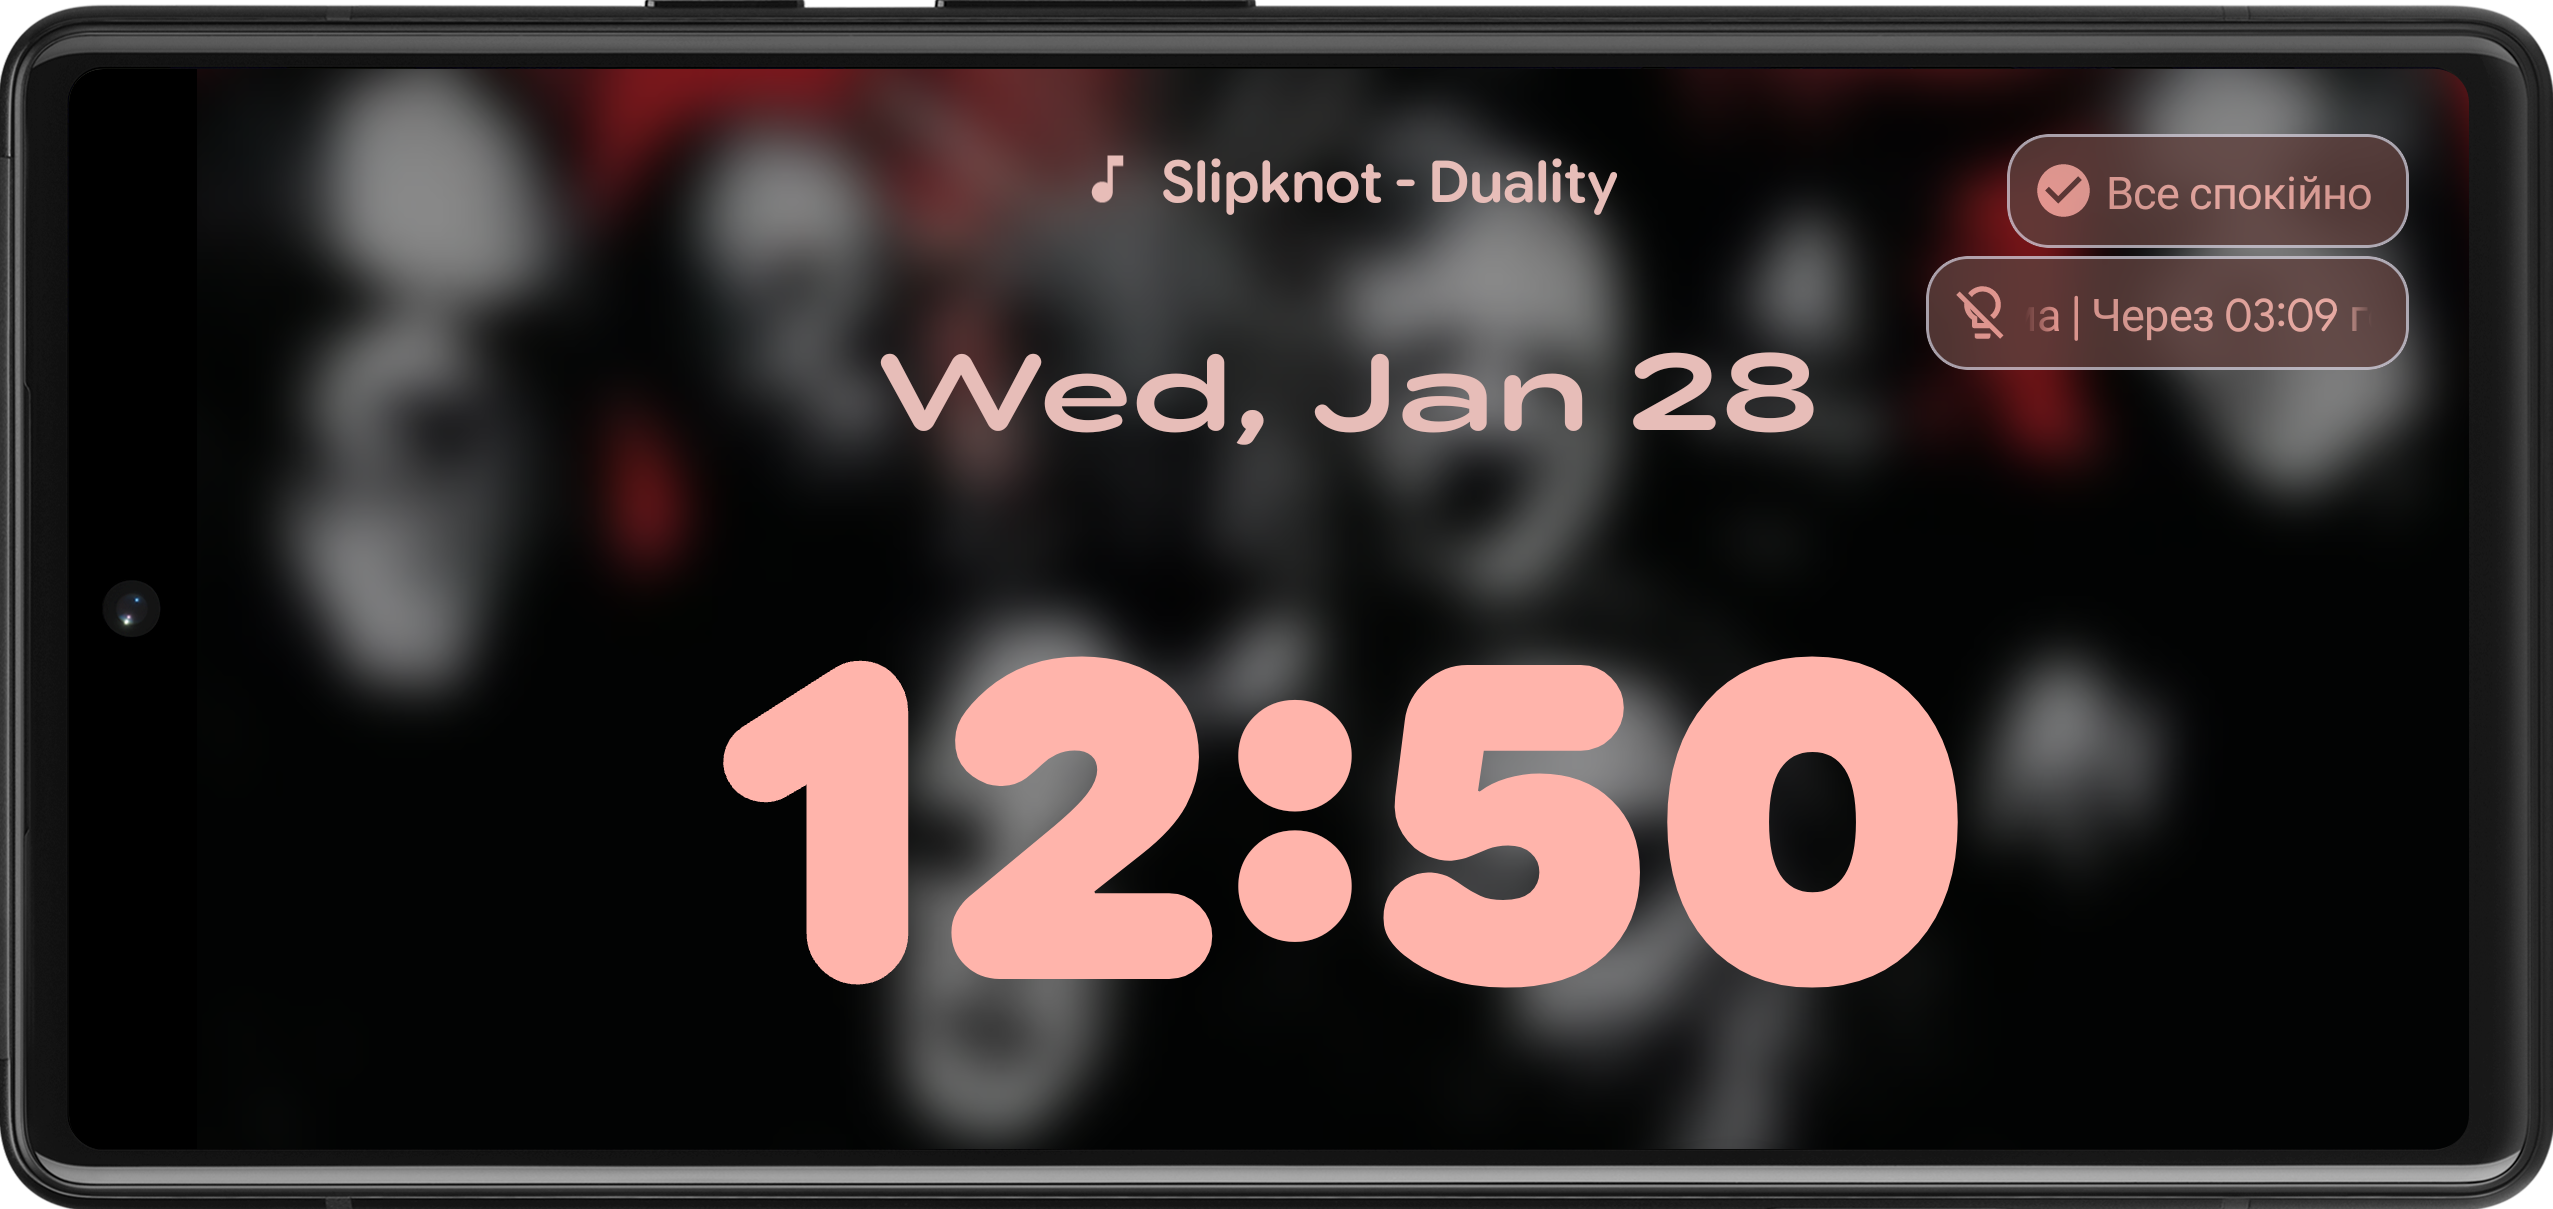
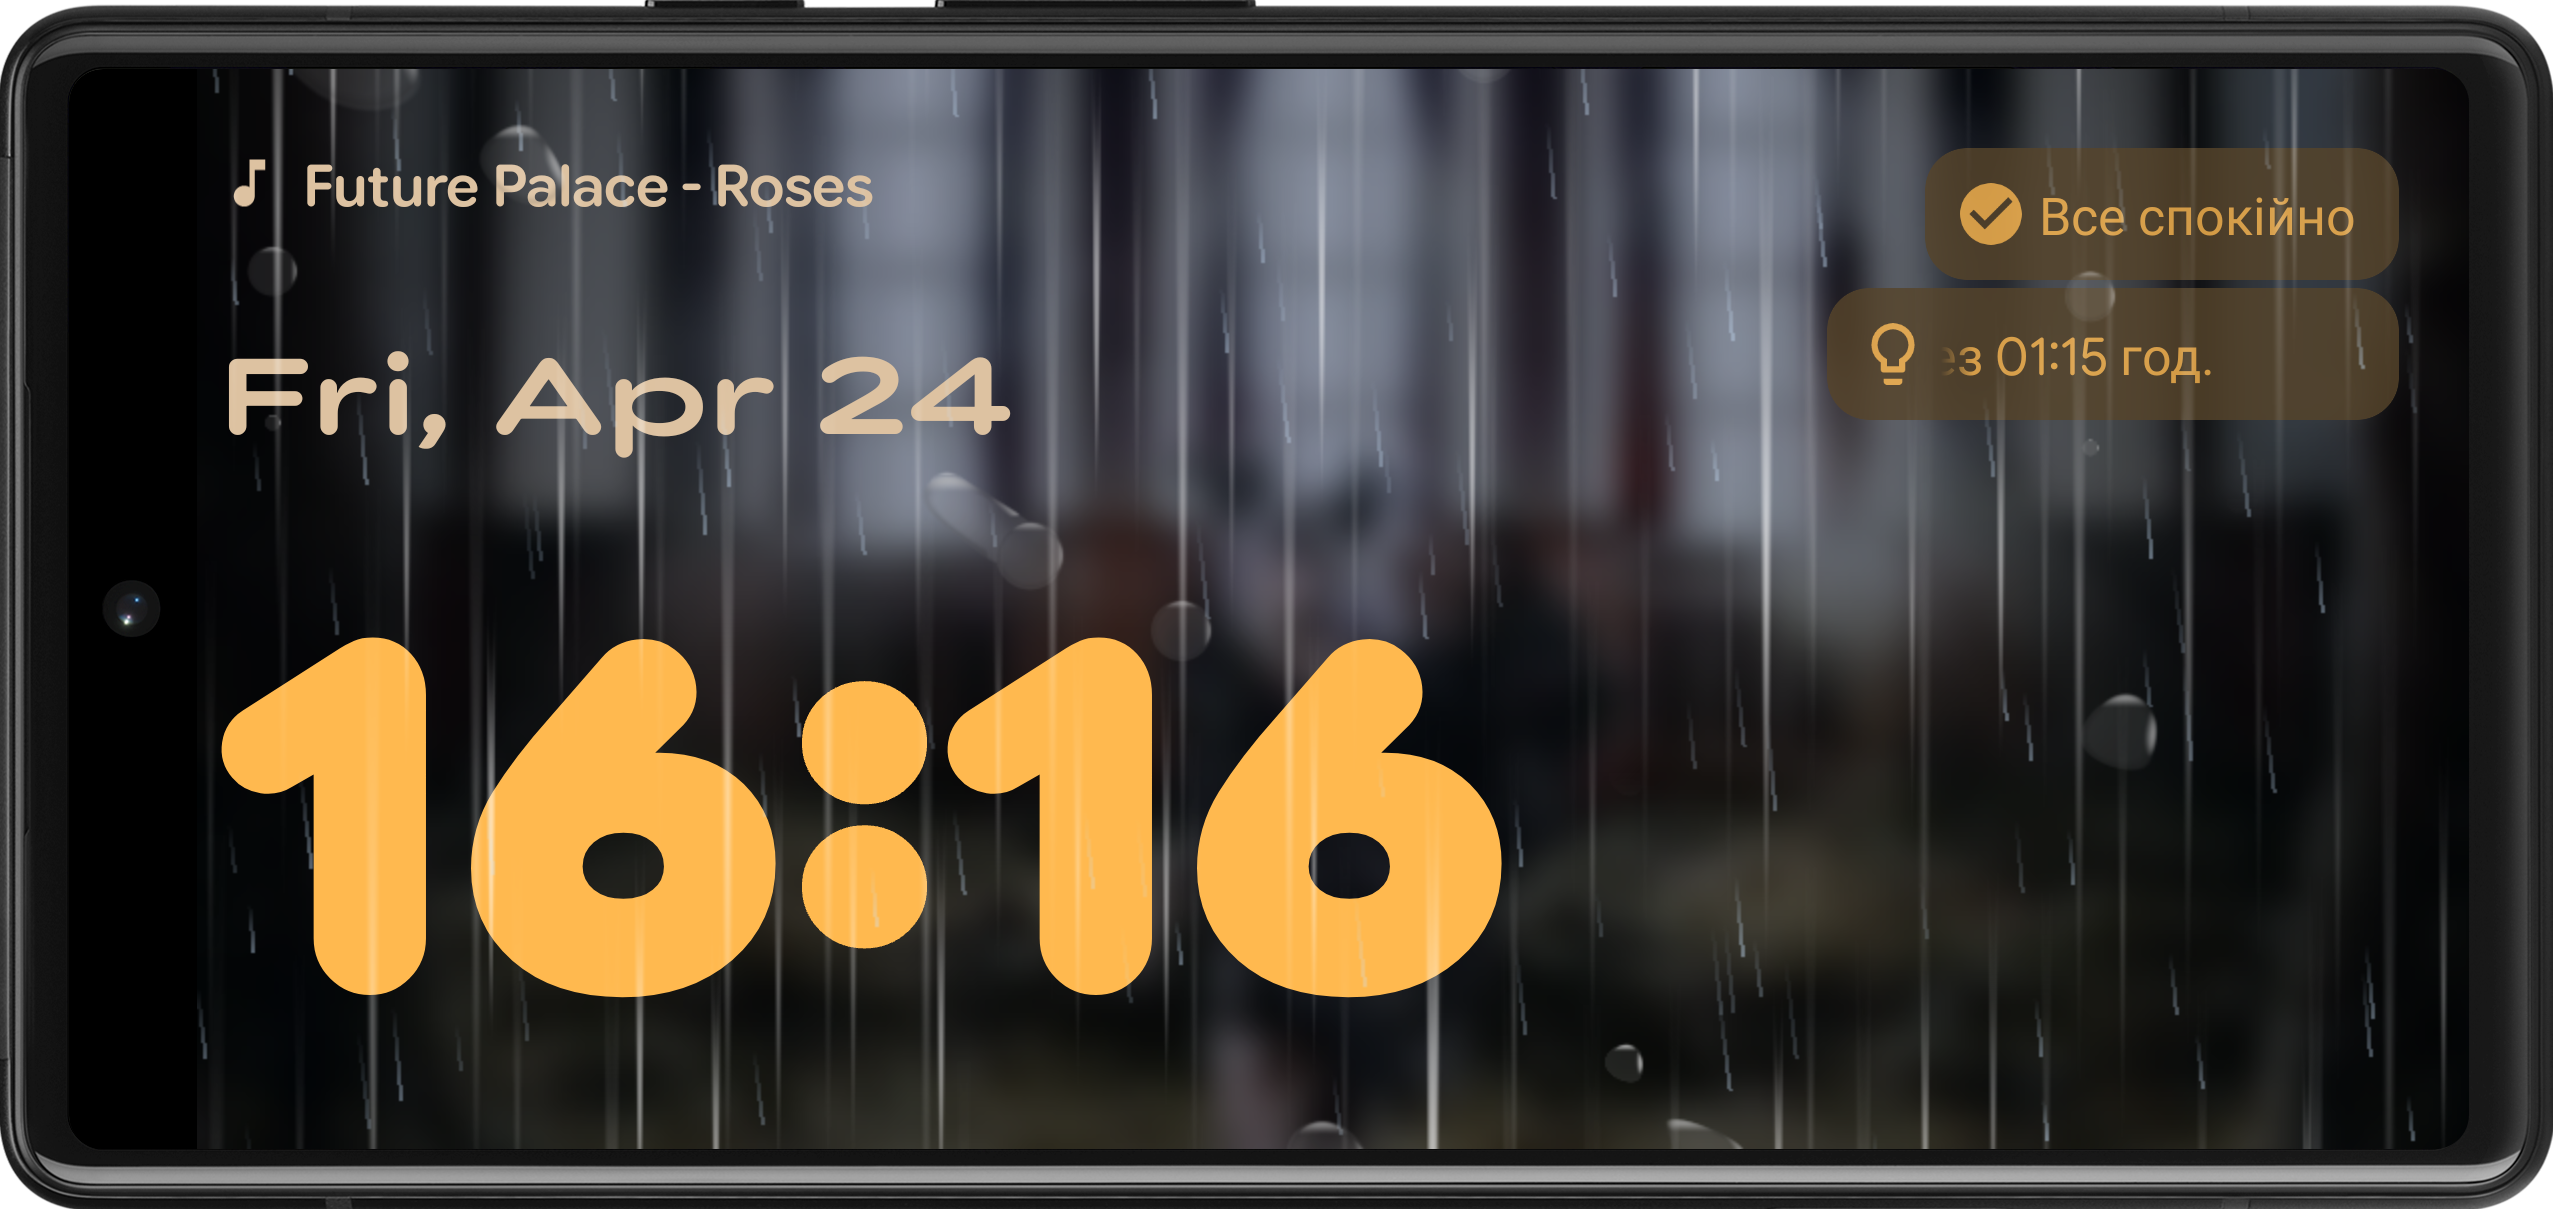
Enhance customization side sheet UI and interaction
Key changes:
- UI Interaction: Implemented touch interception logic in `CustomizationSheetManager.kt` for `Slider` and `RecyclerView` components to prevent accidental side sheet dragging while adjusting settings.
- Animations: Added dynamic scaling and translation effects to the main layout during side sheet transitions. The main layout now scales down and shifts horizontally in sync with the sheet's slide offset.
- Assets: Updated project screenshots to reflect recent UI changes.

diff --git a/app/src/main/java/com/nxd1frnt/clockdesk2/ui/CustomizationSheetManager.kt b/app/src/main/java/com/nxd1frnt/clockdesk2/ui/CustomizationSheetManager.kt
@@ -3,6 +3,7 @@ package com.nxd1frnt.clockdesk2.ui
 import android.os.Build
 import android.util.TypedValue
 import android.view.Gravity
+import android.view.MotionEvent
 import android.view.View
 import android.view.animation.OvershootInterpolator
 import android.widget.Button
@@ -108,6 +109,38 @@ class CustomizationSheetManager(
         container
     }
 
+    private fun preventSheetDragForSlider(slider: Slider) {
+        slider.setOnTouchListener { v, event ->
+            when (event.actionMasked) {
+                MotionEvent.ACTION_DOWN, MotionEvent.ACTION_MOVE -> {
+                    v.parent?.requestDisallowInterceptTouchEvent(true)
+                }
+                MotionEvent.ACTION_UP, MotionEvent.ACTION_CANCEL -> {
+                    v.parent?.requestDisallowInterceptTouchEvent(false)
+                }
+            }
+            false
+        }
+    }
+
+    private fun preventSheetDragForRecyclerView(recyclerView: RecyclerView) {
+        recyclerView.addOnItemTouchListener(object : RecyclerView.OnItemTouchListener {
+            override fun onInterceptTouchEvent(rv: RecyclerView, e: MotionEvent): Boolean {
+                when (e.actionMasked) {
+                    MotionEvent.ACTION_DOWN, MotionEvent.ACTION_MOVE -> {
+                        rv.parent?.requestDisallowInterceptTouchEvent(true)
+                    }
+                    MotionEvent.ACTION_UP, MotionEvent.ACTION_CANCEL -> {
+                        rv.parent?.requestDisallowInterceptTouchEvent(false)
+                    }
+                }
+                return false
+            }
+            override fun onTouchEvent(rv: RecyclerView, e: MotionEvent) {}
+            override fun onRequestDisallowInterceptTouchEvent(disallowIntercept: Boolean) {}
+        })
+    }
+
     init {
         setupBehavior()
         initControls()
@@ -120,21 +153,58 @@ class CustomizationSheetManager(
             override fun onStateChanged(sheet: View, newState: Int) {
                 if (newState == SideSheetBehavior.STATE_HIDDEN) {
                     onSheetStateChanged(true)
-                    restoreMainLayoutState()
+                    //restoreMainLayoutState()
+                    mainLayout.scaleX = 0.90f
+                    mainLayout.scaleY = 0.90f
+                    mainLayout.translationX = 0f
+                    backgroundCustomizationTab.alpha = 1f
+                    backgroundCustomizationTab.visibility = View.VISIBLE
                     highlightFocusedView(false)
                     focusedView = null
                 } else {
                     onSheetStateChanged(false)
                 }
             }
-            override fun onSlide(sheet: View, slideOffset: Float) {}
+            override fun onSlide(sheet: View, slideOffset: Float) {
+                val safeOffset = slideOffset.coerceIn(0f, 1f)
+                val baseScale = 0.90f
+                sheet.alpha = safeOffset
+                val sheetScale = 0.95f + (0.05f * safeOffset)
+                sheet.scaleX = sheetScale
+                sheet.scaleY = sheetScale
+
+                val targetScale = 0.60f
+                val currentScale = baseScale - ((baseScale - targetScale) * safeOffset)
+                mainLayout.scaleX = currentScale
+                mainLayout.scaleY = currentScale
+
+                val metrics = sheet.resources.displayMetrics
+                val screenW = metrics.widthPixels.toFloat()
+                val sideSheetPx = 380f * metrics.density
+                val maxTranslationX = (screenW * (1f - targetScale) / 2f) - sideSheetPx
+
+                mainLayout.translationX = maxTranslationX * safeOffset
+                backgroundCustomizationTab.alpha = 1f - safeOffset
+                if (safeOffset < 1f && backgroundCustomizationTab.visibility == View.GONE) {
+                    backgroundCustomizationTab.visibility = View.VISIBLE
+                } else if (safeOffset == 1f && backgroundCustomizationTab.visibility == View.VISIBLE) {
+                    backgroundCustomizationTab.visibility = View.GONE
+                }
+            }
         })
     }
 
     private fun initControls() {
         bsFontRecyclerView.layoutManager = LinearLayoutManager(sideSheetView.context, LinearLayoutManager.HORIZONTAL, false)
         bsFontRecyclerView.isNestedScrollingEnabled = false
+        preventSheetDragForRecyclerView(bsFontRecyclerView)
+
         bsColorRecyclerView.layoutManager = LinearLayoutManager(sideSheetView.context, LinearLayoutManager.HORIZONTAL, false)
+        preventSheetDragForRecyclerView(bsColorRecyclerView)
+
+        preventSheetDragForSlider(bsSizeSeekBar)
+        preventSheetDragForSlider(bsMaxWidthSeekBar)
+        preventSheetDragForSlider(bsTransparencySeekBar)
 
         setupSizeAndTransparency()
         setupSwitchesAndToggles()
@@ -146,9 +216,9 @@ class CustomizationSheetManager(
         focusedView = viewToCustomize
         isEditingBackground = false
 
-        scaleDownMainLayout()
+        //scaleDownMainLayout()
         highlightFocusedView(true)
-        hideBackgroundTab()
+        //hideBackgroundTab()
 
         configureVisibilityForView(viewToCustomize)
         loadSettingsForView(viewToCustomize)
@@ -242,6 +312,8 @@ class CustomizationSheetManager(
                 }
             }
         }
+
+        preventSheetDragForSlider(slider)
 
         container.addView(nameText)
         container.addView(slider)
